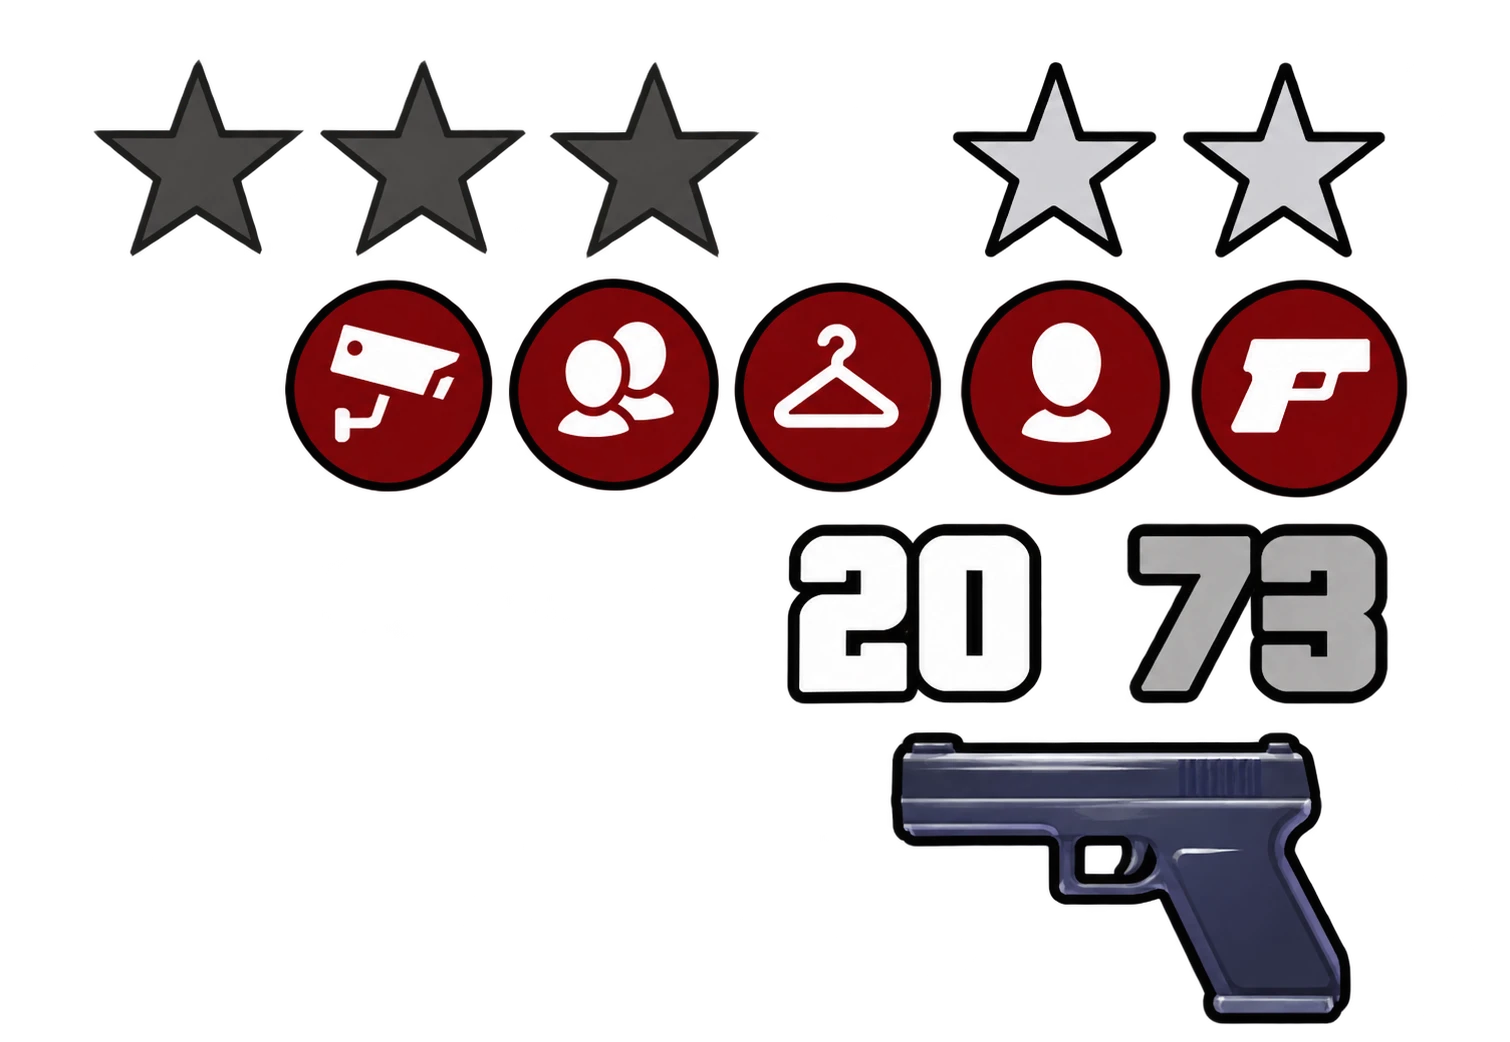
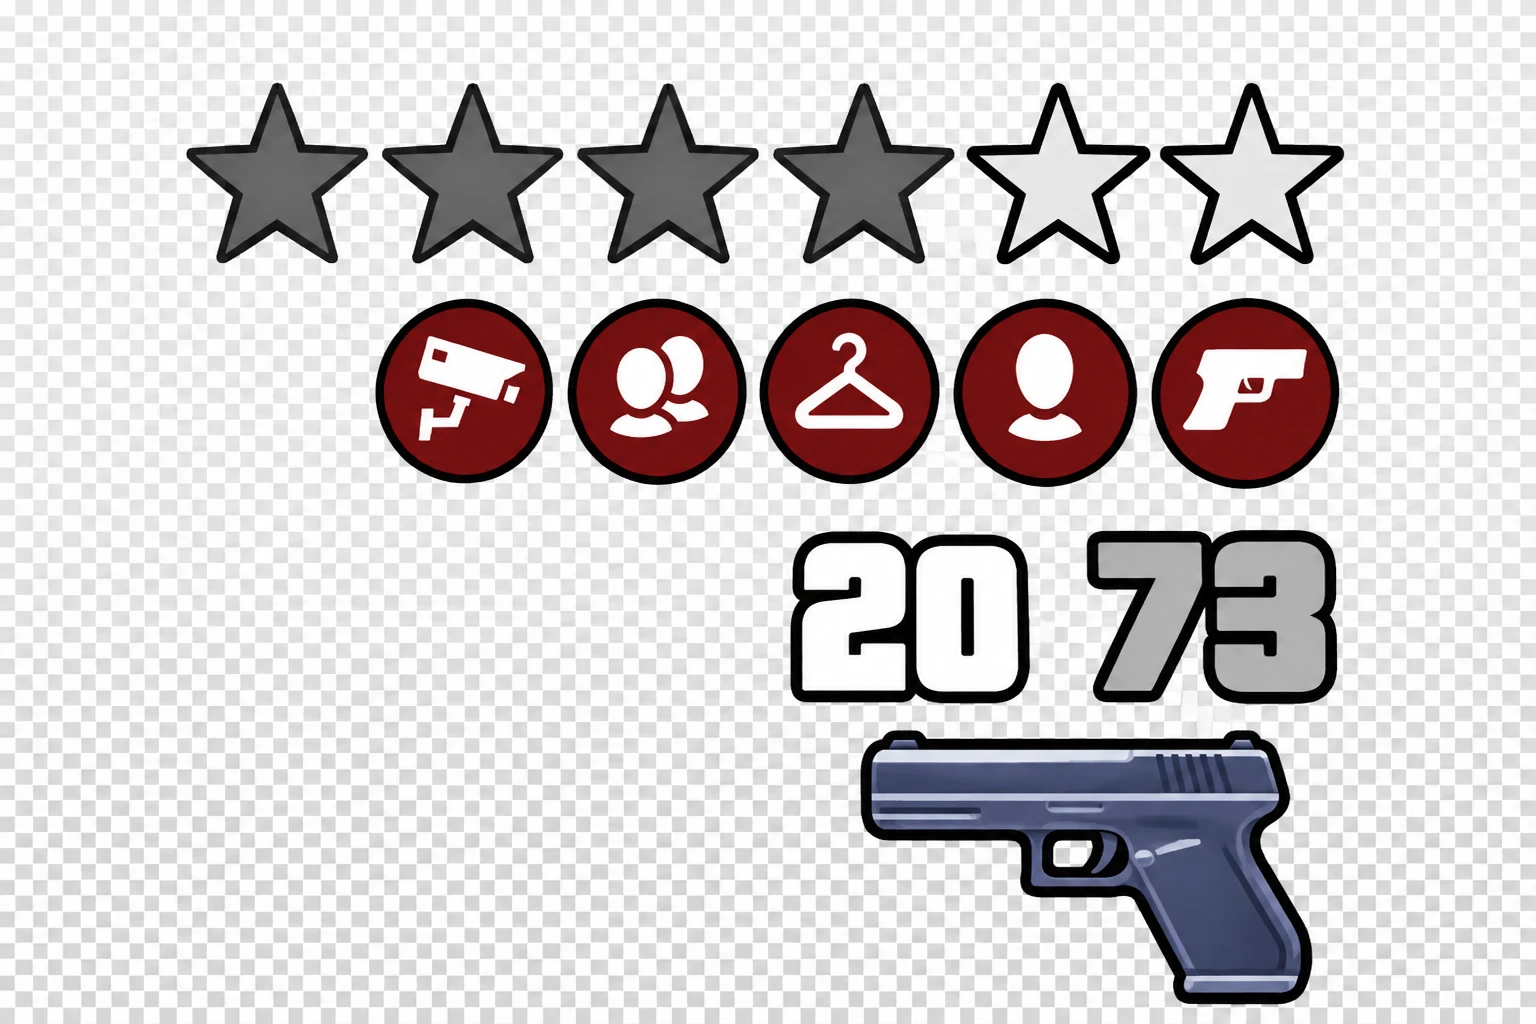
Plan: corrected HUD target (six stars, one row), user's feature list (police, vehicles, weapons, world, missions)

diff --git a/docs/v2/plan/BIG_UPDATE_PLAN.md b/docs/v2/plan/BIG_UPDATE_PLAN.md
@@ -216,8 +216,8 @@ Each car also varies in rims, tint, dirt and parts.
 
 ## 6b. HUD corner (top right): match `hud_corner_target.webp` exactly
 The user designed this target. Replicate it pixel for pixel, scaled to the screen:
-- **Wanted stars:** 5 chunky stars with a thick black outline. Earned stars are dark charcoal; unearned stars are
-  light grey. There's a gap between the earned and unearned groups, as in the image.
+- **Wanted stars: SIX stars** in one evenly spaced row, chunky, with a thick black outline. Earned stars are mid-grey
+  (the example shows 4 earned); unearned stars are near-white. No gap between the two groups.
 - **Evidence icons** below the stars: dark-red circles with a black outline and a white glyph, in this order: camera,
   witnesses (two heads), clothing (hanger), face seen (one head), weapon seen (pistol). Show only the ones that
   apply, keeping the same style.
@@ -225,6 +225,47 @@ The user designed this target. Replicate it pixel for pixel, scaled to the scree
 - **Weapon icon:** a glossy, slightly 3D illustration of the current weapon (dark blue-steel pistol, black outline),
   under the ammo. Every weapon gets the same illustrated style.
 - Everything right-aligned, with the same proportions and spacing as the image. Check it in the Mac app.
+
+## 6c. Features to add (user's list, 2026-11-14)
+**Police and crime**
+- [ ] A six-star wanted system with police responses that escalate at each level.
+- [ ] Witnesses: NPCs report crimes; security cameras can identify suspects.
+- [ ] Police recognition: officers remember the player's appearance, clothing and vehicle.
+- [ ] Disguises: changing clothes or vehicle helps you escape.
+- [ ] Realistic pursuits: police can recognise the player again after a chase.
+
+**Vehicles**
+- [ ] Vehicle security: older cars are easier to steal; expensive cars have better security.
+- [ ] Alarms and trackers on some stolen vehicles.
+- [ ] Ownership: register stolen vehicles to keep them for good.
+- [ ] Fuel: cars sometimes need refuelling, and electric cars need charging (gas pumps are in the model library).
+- [ ] Storage: garages, and trunks that hold vehicles, weapons and equipment.
+
+**Weapons and combat**
+- [ ] Limited carrying: only a few weapons at once.
+- [ ] Extra weapons stored in vehicles.
+- [ ] Civilians react to large weapons carried openly.
+- [ ] Non-lethal takedowns.
+- [ ] Suppressing fire: enemies react to nearby gunfire and take cover.
+
+**World and activities**
+- [ ] More enterable buildings: shops, gas stations, restaurants, banks, houses.
+- [ ] Robberies of stores and other places, with different approaches.
+- [ ] Dynamic traffic: realistic density and rush-hour congestion.
+- [ ] Drive-through restaurants: order food without leaving the car.
+- [ ] Gym: working out improves strength, stamina and appearance.
+- [ ] Food and health: different foods give temporary benefits.
+- [ ] Interactive interiors: watch TV, sleep, eat, use objects.
+
+**Missions and progression**
+- [ ] Flexible missions: stealth, combat or alternative routes.
+- [ ] Side missions discovered through NPC conversations and the environment.
+- [ ] Money: separate cash, bank balance and stolen valuables.
+- [ ] Safe houses: save, sleep, change clothes and store items.
+- [ ] Fast travel by taxi and rideshare.
+
+Some of this already exists in part: wanted evidence icons, witnesses, cameras, property and business income,
+economy and money. Polish what exists, then build what's missing, after the look and the map (section 9).
 
 ## 7. Missions, heists and things to do (so it's a game, not just a sandbox)
 - [ ] A story arc of 8–12 missions with Nico, using the systems that exist: cars, boats, yachts, clubs, shops,
